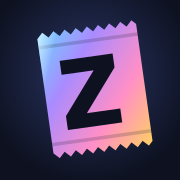
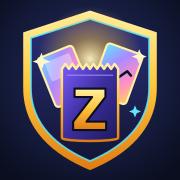
Nova identidade Boosterz: escudo, nome dourado e prévia de link

diff --git a/index.html b/index.html
@@ -5,6 +5,11 @@
 <title>Boosterz</title>
 <meta name="viewport" content="width=device-width,initial-scale=1,viewport-fit=cover">
 <meta name="description" content="Escaneie, organize e acompanhe o valor da sua coleção de Pokémon TCG.">
+<meta property="og:title" content="Boosterz · TCG Tracker">
+<meta property="og:description" content="Escaneie suas cartas, acompanhe o valor da coleção e siga seus amigos.">
+<meta property="og:image" content="https://pepequito.github.io/TCGDex/icons/og.jpg">
+<meta property="og:type" content="website">
+<meta name="twitter:card" content="summary_large_image">
 <meta name="apple-mobile-web-app-capable" content="yes">
 <meta name="mobile-web-app-capable" content="yes">
 <meta name="apple-mobile-web-app-title" content="Boosterz">
@@ -16,17 +21,18 @@
 <link rel="manifest" href="manifest.webmanifest">
 <link rel="preconnect" href="https://fonts.googleapis.com">
 <link rel="preconnect" href="https://fonts.gstatic.com" crossorigin>
-<link rel="stylesheet" href="https://fonts.googleapis.com/css2?family=Bricolage+Grotesque:opsz,wght@12..96,500;12..96,700;12..96,800&family=IBM+Plex+Mono:wght@500;600&family=Instrument+Sans:wght@400;500;600&display=swap">
-<link rel="stylesheet" href="styles.css?v=202611032316">
+<link rel="stylesheet" href="https://fonts.googleapis.com/css2?family=Lilita+One&family=Bricolage+Grotesque:opsz,wght@12..96,500;12..96,700;12..96,800&family=IBM+Plex+Mono:wght@500;600&family=Instrument+Sans:wght@400;500;600&display=swap">
+<link rel="stylesheet" href="styles.css?v=202611032323">
 <style>
 /* Estilo mínimo da abertura, embutido: ela fica certa mesmo se styles.css ainda estiver carregando. */
 #splash { position: fixed; inset: 0; z-index: 100; display: grid; place-content: center; justify-items: center; gap: 14px; background: #0d1120; }
 #splash img { width: 120px; height: 120px; }
-#splash b { font: 800 30px system-ui, sans-serif; color: #f2f5fc; }
+#splash b { display: block; font: 800 30px system-ui, sans-serif; color: #ffc83d; }
+#splash small { display: block; color: #5ee7ff; letter-spacing: .3em; font: 700 11px system-ui, sans-serif; text-align: center; }
 </style>
 </head>
 <body>
-<div id="splash" aria-hidden="true"><img src="icons/icon.svg" alt=""><b>Boosterz</b></div>
+<div id="splash" aria-hidden="true"><img src="icons/icon.svg" alt=""><span class="wordmark"><b>BOOSTERZ</b><small>TCG TRACKER</small></span></div>
 <script>setTimeout(function () { var s = document.getElementById('splash'); if (s) s.remove(); }, 3000);</script>
 <header id="deskbar">
   <form id="deskSearch" role="search"><svg viewBox="0 0 24 24" aria-hidden="true"><circle cx="11" cy="11" r="7"/><path d="m20 20-4-4"/></svg>
@@ -37,6 +43,7 @@
 <main id="view"></main>
 
 <nav id="tabs" aria-label="Navegação principal">
+  <div id="brand" class="desk-only"><img src="icons/icon.svg" alt=""><span class="wordmark"><b>BOOSTERZ</b><small>TCG TRACKER</small></span></div>
   <button data-tab="home" type="button"><svg viewBox="0 0 24 24" aria-hidden="true"><path d="M5 3h11a3 3 0 0 1 3 3v15H8a3 3 0 0 1-3-3zM5 18a3 3 0 0 1 3-3h11"/></svg><span>Coleção</span></button>
   <button data-tab="cards" type="button" class="desk-only"><svg viewBox="0 0 24 24" aria-hidden="true"><path d="M4 6h16M4 12h16M4 18h16"/></svg><span>Minhas cartas</span></button>
   <button data-tab="sets" type="button"><svg viewBox="0 0 24 24" aria-hidden="true"><path d="M4 4h7v7H4zM13 4h7v7h-7zM4 13h7v7H4zM13 13h7v7h-7z"/></svg><span>Sets</span></button>
@@ -66,11 +73,11 @@
 <input id="importInput" type="file" accept="application/json,.json" hidden>
 
 <script src="https://cdn.jsdelivr.net/npm/tesseract.js@5.1.1/dist/tesseract.min.js" defer></script>
-<script src="firebase-config.js?v=202611032316" defer></script>
-<script src="app.js?v=202611032316" defer></script>
-<script src="views.js?v=202611032316" defer></script>
-<script src="desk.js?v=202611032316" defer></script>
-<script src="sync.js?v=202611032316" defer></script>
-<script src="social.js?v=202611032316" defer></script>
+<script src="firebase-config.js?v=202611032323" defer></script>
+<script src="app.js?v=202611032323" defer></script>
+<script src="views.js?v=202611032323" defer></script>
+<script src="desk.js?v=202611032323" defer></script>
+<script src="sync.js?v=202611032323" defer></script>
+<script src="social.js?v=202611032323" defer></script>
 </body>
 </html>

diff --git a/styles.css b/styles.css
@@ -271,10 +271,20 @@ details summary { padding: 8px 0; color: var(--muted); font-size: 14px; font-wei
 .scan-bottom { position: absolute; inset: auto 16px calc(env(safe-area-inset-bottom, 0px) + 28px); text-align: center; }
 .ghost { display: inline-block; padding: 12px 22px; border-radius: 14px; background: rgb(255 255 255 / .14); -webkit-backdrop-filter: blur(10px); backdrop-filter: blur(10px); font-weight: 600; cursor: pointer; }
 
+/* Nome da marca: dourado com contorno escuro, como na referência, e "TCG TRACKER" em ciano */
+.wordmark { display: grid; justify-items: start; line-height: 1; }
+.wordmark b { font: 400 30px "Lilita One", var(--display); letter-spacing: .02em; color: transparent; background: linear-gradient(180deg, #fff1a6, #ffc83d 48%, #e07b12); -webkit-background-clip: text; background-clip: text; -webkit-text-stroke: 1.2px #3a1c00; filter: drop-shadow(0 2px 0 #0a0e1f) drop-shadow(0 0 12px rgb(255 200 61 / .3)); }
+.wordmark small { margin-top: 3px; padding-left: 2px; font: 700 9.5px var(--mono); letter-spacing: .34em; color: #5ee7ff; text-shadow: 0 0 8px rgb(94 231 255 / .55); }
+.brand-row { display: flex; align-items: center; gap: 10px; }
+.brand-row img { width: 42px; height: 42px; }
+.brand-row .wordmark b { font-size: 24px; }
+
 /* Abertura: o símbolo aparece enquanto o app monta a primeira tela */
 #splash { position: fixed; inset: 0; z-index: 100; display: grid; place-content: center; justify-items: center; gap: 14px; background: radial-gradient(70% 50% at 50% 42%, #2b3666, var(--bg)); transition: opacity .35s ease, visibility .35s; }
-#splash img { width: 120px; height: 120px; border-radius: 28px; box-shadow: 0 18px 40px rgb(0 0 0 / .5); }
-#splash b { font: 800 30px var(--display); letter-spacing: -.03em; color: transparent; background: var(--foil); -webkit-background-clip: text; background-clip: text; }
+#splash img { width: 150px; height: 150px; filter: drop-shadow(0 18px 30px rgb(0 0 0 / .5)); }
+#splash .wordmark { justify-items: center; }
+#splash .wordmark b { font-size: 40px; }
+#splash .wordmark small { font-size: 11px; }
 #splash.out { opacity: 0; visibility: hidden; }
 @media (prefers-reduced-motion: no-preference) { #splash img { animation: pop .5s cubic-bezier(.2, .9, .3, 1.3); } @keyframes pop { from { transform: scale(.7) rotate(-12deg); opacity: 0; } } }
 
@@ -298,7 +308,9 @@ details summary { padding: 8px 0; color: var(--muted); font-size: 14px; font-wei
   /* Barra lateral */
   #tabs { inset: 0 auto 0 0; width: 236px; max-width: none; height: auto; margin: 0; padding: 22px 14px 16px; grid-template-columns: 1fr; grid-template-rows: auto auto repeat(5, min-content) 1fr auto; align-content: stretch; gap: 2px;
     border: 0; border-right: 1px solid var(--line); border-radius: 0; background: var(--bg-2); box-shadow: none; -webkit-backdrop-filter: none; backdrop-filter: none; }
-  #tabs::before { content: "Boosterz"; order: -2; padding: 2px 12px 18px; font: 800 25px var(--display); letter-spacing: -.03em; color: transparent; background: var(--foil); -webkit-background-clip: text; background-clip: text; }
+  #brand { order: -2; grid-template-columns: 46px 1fr; align-items: center; gap: 10px; padding: 0 6px 18px; }
+  #brand img { width: 46px; height: 46px; }
+  #brand .wordmark b { font-size: 25px; }
   #tabs button { grid-template-columns: 22px 1fr; justify-items: start; align-items: center; gap: 12px; padding: 10px 12px; border-radius: 10px; font-size: 14px; font-weight: 500; }
   #tabs button:hover { background: var(--surface); color: var(--ink); }
   #tabs button.on { background: var(--surface-2); color: var(--ink); font-weight: 600; }

diff --git a/views.js b/views.js
@@ -103,6 +103,7 @@ async function renderHome() {
   const top = [...cards].sort((a, b) => valueOf(b) - valueOf(a)).slice(0, 8);
   const recent = [...cards].sort((a, b) => b.addedAt - a.addedAt).slice(0, 8);
   view.innerHTML = `
+    <div class="brand-row"><img src="icons/icon.svg" alt=""><span class="wordmark"><b>BOOSTERZ</b><small>TCG TRACKER</small></span></div>
     <div class="topbar"><div class="hello"><span>Olá, treinador</span><b>${esc(trainerName())}</b></div>
       <button class="ring-avatar" type="button" data-tab="profile" aria-label="Abrir perfil">${avatar()}</button></div>
     <div class="hero"><div><span class="label">Valor da coleção</span><span class="value">${money(total)}</span></div>

diff --git a/sw.js b/sw.js
@@ -1,4 +1,4 @@
-const SHELL = 'boosterz-shell-202611032316', RUNTIME = 'fichario-runtime-1';
+const SHELL = 'boosterz-shell-202611032323', RUNTIME = 'fichario-runtime-1';
 const FILES = ['./', 'index.html', 'styles.css', 'app.js', 'views.js', 'desk.js', 'sync.js', 'social.js', 'firebase-config.js', 'manifest.webmanifest', 'icons/icon-180.png', 'icons/icon.svg', 'icons/favicon-64.png', 'data/index.json', 'data/hashes.bin', 'data/set-logos.json', 'data/catalog.json'];
 
 self.addEventListener('install', e => {
